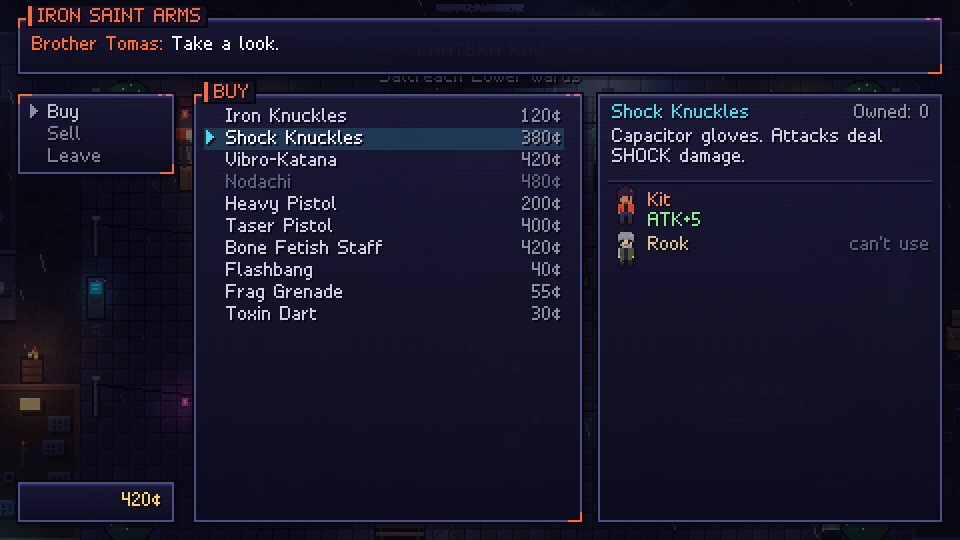
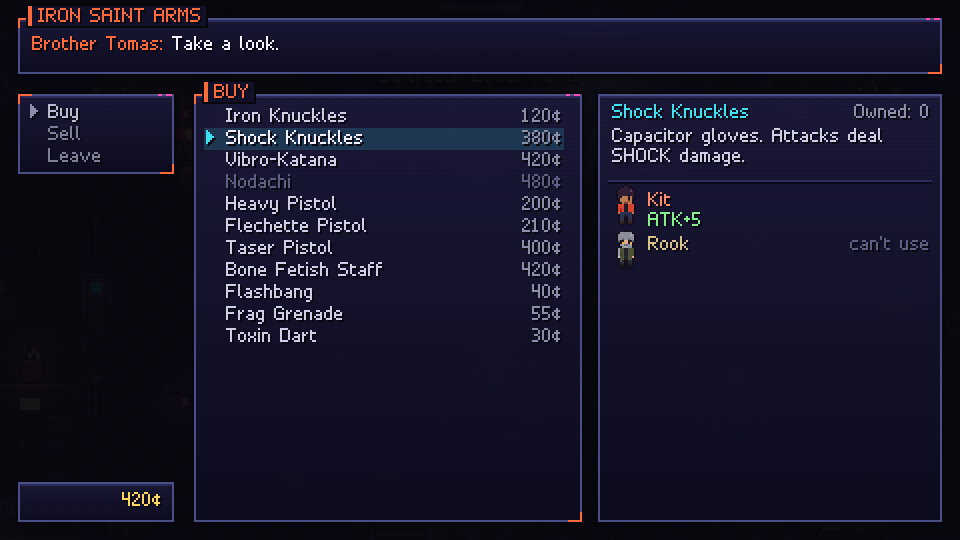
Round 8 (part 5): economy — Hex's choice, selling, a results screen from a real run
Hex gets a same-tier weapon choice (Flechette Pistol: lighter hits, +12%
critical, beside the Heavy Pistol), covered by the alternative-builds tests.
Selling has an E2E (loot turns into cred) and a screenshot (10b). The
playthrough E2E now captures the results screen at the end of its driven run
(24c), next to the preset-stage shot, with a note on what each shows.

diff --git a/src/data/items.ts b/src/data/items.ts
@@ -69,6 +69,8 @@ export const ITEMS: Record<string, ItemDef> = {
   nodachi: I({ id: 'nodachi', name: 'Nodachi', kind: 'weapon', slot: 'weapon', who: ['rook'], price: 480, atk: 19, crit: 10, agi: -2, desc: 'A two-meter field sword. Slower than a katana, but its reach finds gaps: +10% critical, -2 AGI.' }),
   mono_katana: I({ id: 'mono_katana', name: 'Mono-Katana', kind: 'weapon', slot: 'weapon', who: ['rook'], price: 1150, atk: 25, crit: 5, desc: 'Monomolecular edge. Cuts steel. +5% critical.' }),
   holdout: I({ id: 'holdout', name: 'Hold-out Pistol', kind: 'weapon', slot: 'weapon', who: ['hex'], price: 30, atk: 5, desc: 'Fits in a boot. Barely a gun.' }),
+  // Hex's same-tier choice: the heavy pistol hits harder; needles hit less but crit far more.
+  flechette_pistol: I({ id: 'flechette_pistol', name: 'Flechette Pistol', kind: 'weapon', slot: 'weapon', who: ['hex'], price: 210, atk: 8, crit: 12, desc: 'Needle rounds. Lighter hits, far more of them land critical. +12% critical.' }),
   heavy_pistol: I({ id: 'heavy_pistol', name: 'Heavy Pistol', kind: 'weapon', slot: 'weapon', who: ['hex'], price: 200, atk: 11, desc: 'Solid stopping power.' }),
   taser_pistol: I({ id: 'taser_pistol', name: 'Taser Pistol', kind: 'weapon', slot: 'weapon', who: ['hex'], price: 400, atk: 12, element: 'shock', desc: 'Attacks deal SHOCK damage. Great on drones and chromed gangers.' }),
   smartpistol: I({ id: 'smartpistol', name: 'Smartpistol', kind: 'weapon', slot: 'weapon', who: ['hex'], price: 900, atk: 17, hit: 10, desc: 'Linked to Hex’s deck. +10% hit.' }),

diff --git a/e2e/playthrough.spec.ts b/e2e/playthrough.spec.ts
@@ -6,7 +6,7 @@ import { expect, test } from '@playwright/test';
 import { playChapter1, sj, waitFor } from './route';
 
 test('Chapter 1 can be played start to finish', async ({ page }) => {
-  test.setTimeout(240_000);
+  test.setTimeout(420_000);
   const errors: string[] = [];
   page.on('pageerror', (e) => errors.push(String(e)));
   page.on('console', (m) => m.type() === 'error' && errors.push(m.text()));
@@ -14,7 +14,13 @@ test('Chapter 1 can be played start to finish', async ({ page }) => {
   await page.waitForTimeout(800);
   await sj(page, 'Object.assign(sj.debug, { autoDialog: true, autoBattle: true })');
   await sj(page, 'sj.newGame()');
-  await playChapter1(page);
-  await waitFor(page, "sj.top() === 'TitleScene'", 'back to title', 40_000);
+  // Before the dock, dialogs go back to lingering (the playtest driver), so the results screen
+  // of this driven run stays up long enough to capture: evidence of what the systems actually
+  // produce (the screenshot set's own ending shot uses a preset stage).
+  await playChapter1(page, () => sj(page, 'Object.assign(sj.debug, { autoDialog: false, playtest: true })'));
+  await waitFor(page, "sj.top() === 'EndingScene'", 'results screen', 120_000);
+  await page.waitForTimeout(2600);
+  await page.locator('#screen').screenshot({ path: 'docs/screenshots/24c-ending-results-playthrough.png' });
+  await waitFor(page, "sj.top() === 'TitleScene'", 'back to title', 60_000);
   expect(errors).toEqual([]);
 });

diff --git a/e2e/economy.spec.ts b/e2e/economy.spec.ts
@@ -111,3 +111,26 @@ test('a shop takes the cred and hands over the goods', async ({ page }) => {
   for (let i = 0; i < 8 && (await sj<string>(page, 'sj.state.map')) === 'armory'; i++) await tap(page, 'ArrowDown', 220);
   expect(await waitFor(page, "sj.state.map === 'lantern_row'", 4000), 'back on the street').toBe(true);
 });
+
+test('selling loot turns it into cred', async ({ page }) => {
+  await page.goto('/?debug');
+  await page.waitForTimeout(800);
+  await sj(page, "sj.stage('town')");
+  await waitFor(page, 'sj.idle()', 3000);
+  await sj(page, "(sj.state.inventory = { gang_colors: 2, medkit: 1 }, sj.state.cred = 100, true)");
+  await sj(page, "sj.shop('lr_weapons')");
+  expect(await waitFor(page, "sj.top() === 'ShopScene'", 3000)).toBe(true);
+  await page.waitForTimeout(400);
+  // Root menu: Buy, Sell, Leave. Sell -> first item -> quantity 1 -> confirm.
+  await tap(page, 'ArrowDown');
+  await page.waitForTimeout(200);
+  for (const k of ['Enter', 'Enter', 'Enter']) {
+    await tap(page, k);
+    await page.waitForTimeout(300);
+  }
+  const cred = await sj<number>(page, 'sj.state.cred');
+  const inv = await sj<Record<string, number>>(page, '({ ...sj.state.inventory })');
+  expect(cred).toBeGreaterThan(100);
+  const sold = (inv.gang_colors ?? 0) < 2 || (inv.medkit ?? 0) < 1;
+  expect(sold, 'one item line went down').toBe(true);
+});

diff --git a/tests/balance.test.ts b/tests/balance.test.ts
@@ -74,6 +74,8 @@ describe('alternative builds', () => {
   const alts: { stage: string; table: string; swap: Swap }[] = [
     { stage: 'sinkline', table: 'sinkline', swap: { kit: { weapon: 'shock_knuckles', mod: 'lucky_coin' }, hex: { weapon: 'taser_pistol', mod: 'cyber_eye' } } },
     { stage: 'lurker', table: 'f_lurker', swap: { kit: { weapon: 'razor_tekko', mod: 'reflex_booster' }, rook: { weapon: 'nodachi', mod: 'dermal_plating' } } },
+    { stage: 'sinkline', table: 'sinkline', swap: { hex: { weapon: 'flechette_pistol' } } },
+    { stage: 'lurker', table: 'f_lurker', swap: { hex: { weapon: 'flechette_pistol' } } },
     { stage: 'annex', table: 'annex', swap: { sable: { weapon: 'thorn_rod', mod: 'spirit_fetish' }, rook: { mod: 'adrenal_pump' } } },
     { stage: 'warden', table: 'f_warden', swap: { kit: { mod: 'lucky_coin' }, hex: { mod: 'reflex_booster' }, sable: { weapon: 'bone_staff' } } },
   ];

diff --git a/e2e/route.ts b/e2e/route.ts
@@ -39,7 +39,7 @@ async function press(page: Page, key: string): Promise<void> {
 }
 
 /** From a fresh New Game to the chapter-end flag. */
-export async function playChapter1(page: Page): Promise<void> {
+export async function playChapter1(page: Page, beforeEnding?: () => Promise<void>): Promise<void> {
   await waitFlag(page, 'intro');
   // First fight in the plaza
   await tp(page, 'lantern_row', 27, 15, 'down');
@@ -111,6 +111,7 @@ export async function playChapter1(page: Page): Promise<void> {
   await press(page, 'ArrowDown');
   await waitFlag(page, 'warden');
   // Lift to the dock: the betrayal and the ending.
+  await beforeEnding?.();
   await tp(page, 'annex', 38, 31, 'down');
   await press(page, 'ArrowDown');
   await waitFlag(page, 'chapter_end');

diff --git a/src/data/shops.ts b/src/data/shops.ts
@@ -20,7 +20,7 @@ export const SHOPS: Record<string, ShopDef> = {
     id: 'lr_weapons', name: 'IRON SAINT ARMS', keeper: 'Brother Tomas', accent: '#ff6a3a',
     greeting: 'Every blade here is blessed. The guns are just loaded.',
     thanks: 'Go with steel.',
-    items: ['iron_knuckles', 'shock_knuckles', 'vibro_katana', 'nodachi', 'heavy_pistol', 'taser_pistol', 'bone_staff', 'flashbang', 'frag', 'toxin_dart'],
+    items: ['iron_knuckles', 'shock_knuckles', 'vibro_katana', 'nodachi', 'heavy_pistol', 'flechette_pistol', 'taser_pistol', 'bone_staff', 'flashbang', 'frag', 'toxin_dart'],
   },
   lr_armor: {
     id: 'lr_armor', name: 'KOWLOON THREADS', keeper: 'Auntie Wen', accent: '#b07cff',

diff --git a/e2e/shots.spec.ts b/e2e/shots.spec.ts
@@ -99,6 +99,14 @@ test('10 shop', async ({ page }) => {
   await key(page, 'ArrowDown');
   await page.waitForTimeout(400);
   await shot(page, '10-shop');
+  // The Sell tab, with something to sell.
+  await sj(page, "(sj.state.inventory = { ...sj.state.inventory, gang_colors: 2 }, true)");
+  await key(page, 'Escape');
+  await page.waitForTimeout(300);
+  await key(page, 'ArrowDown');
+  await key(page, 'Enter');
+  await page.waitForTimeout(400);
+  await shot(page, '10b-shop-sell');
 });
 
 test('11 battle command + techs', async ({ page }) => {
